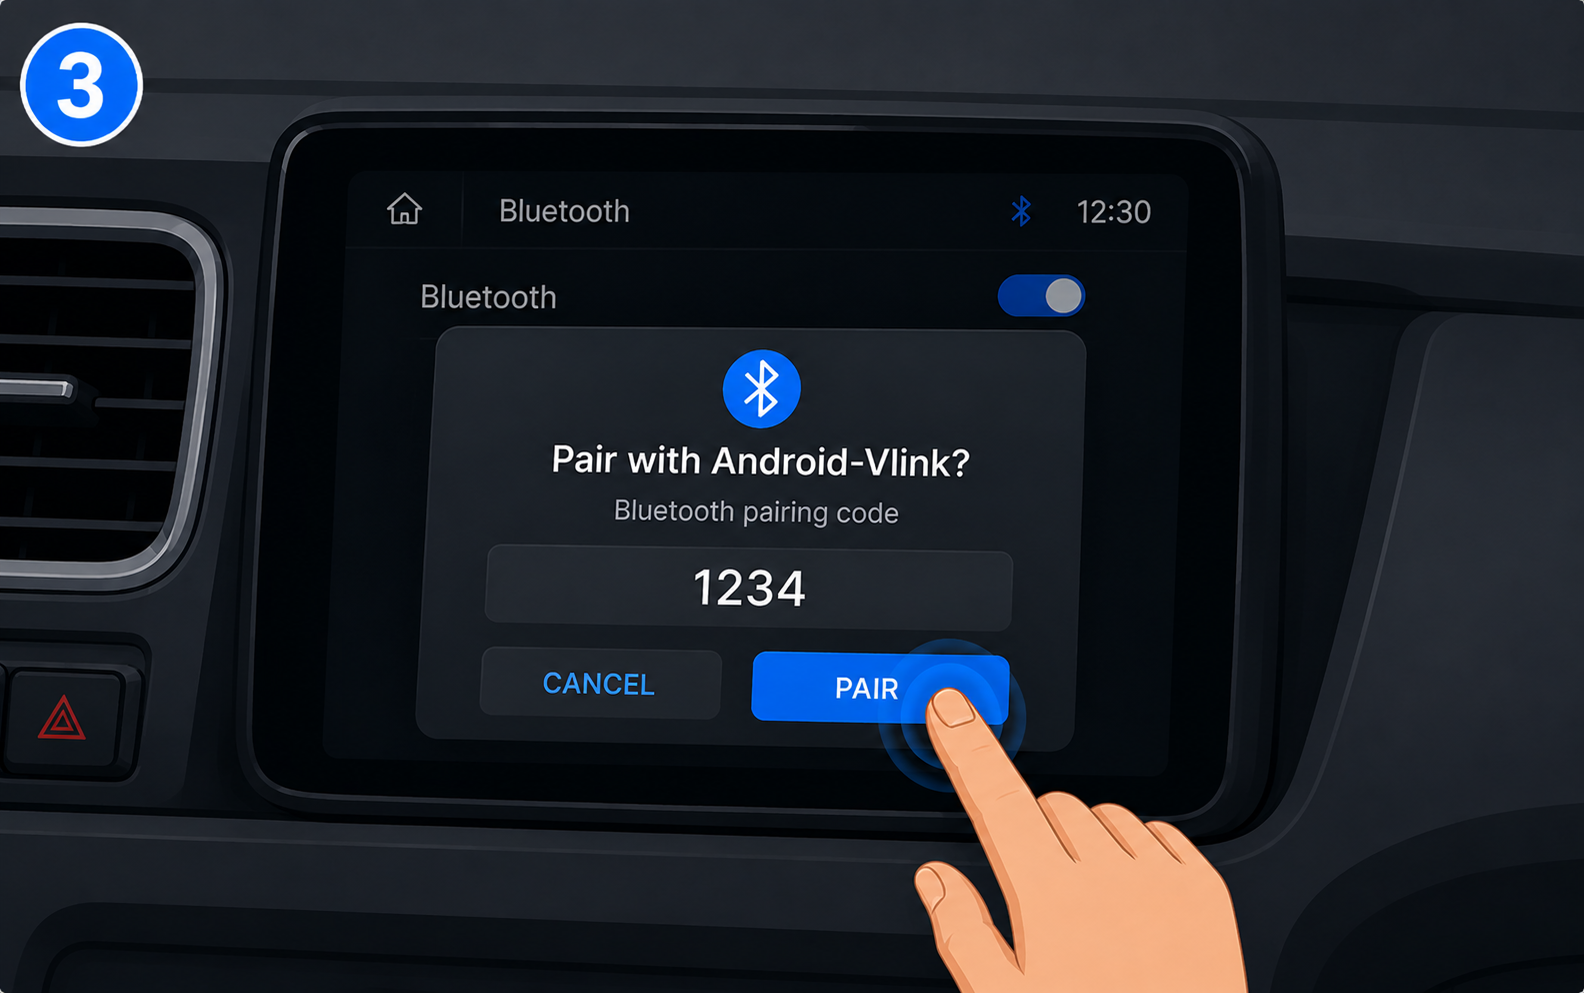
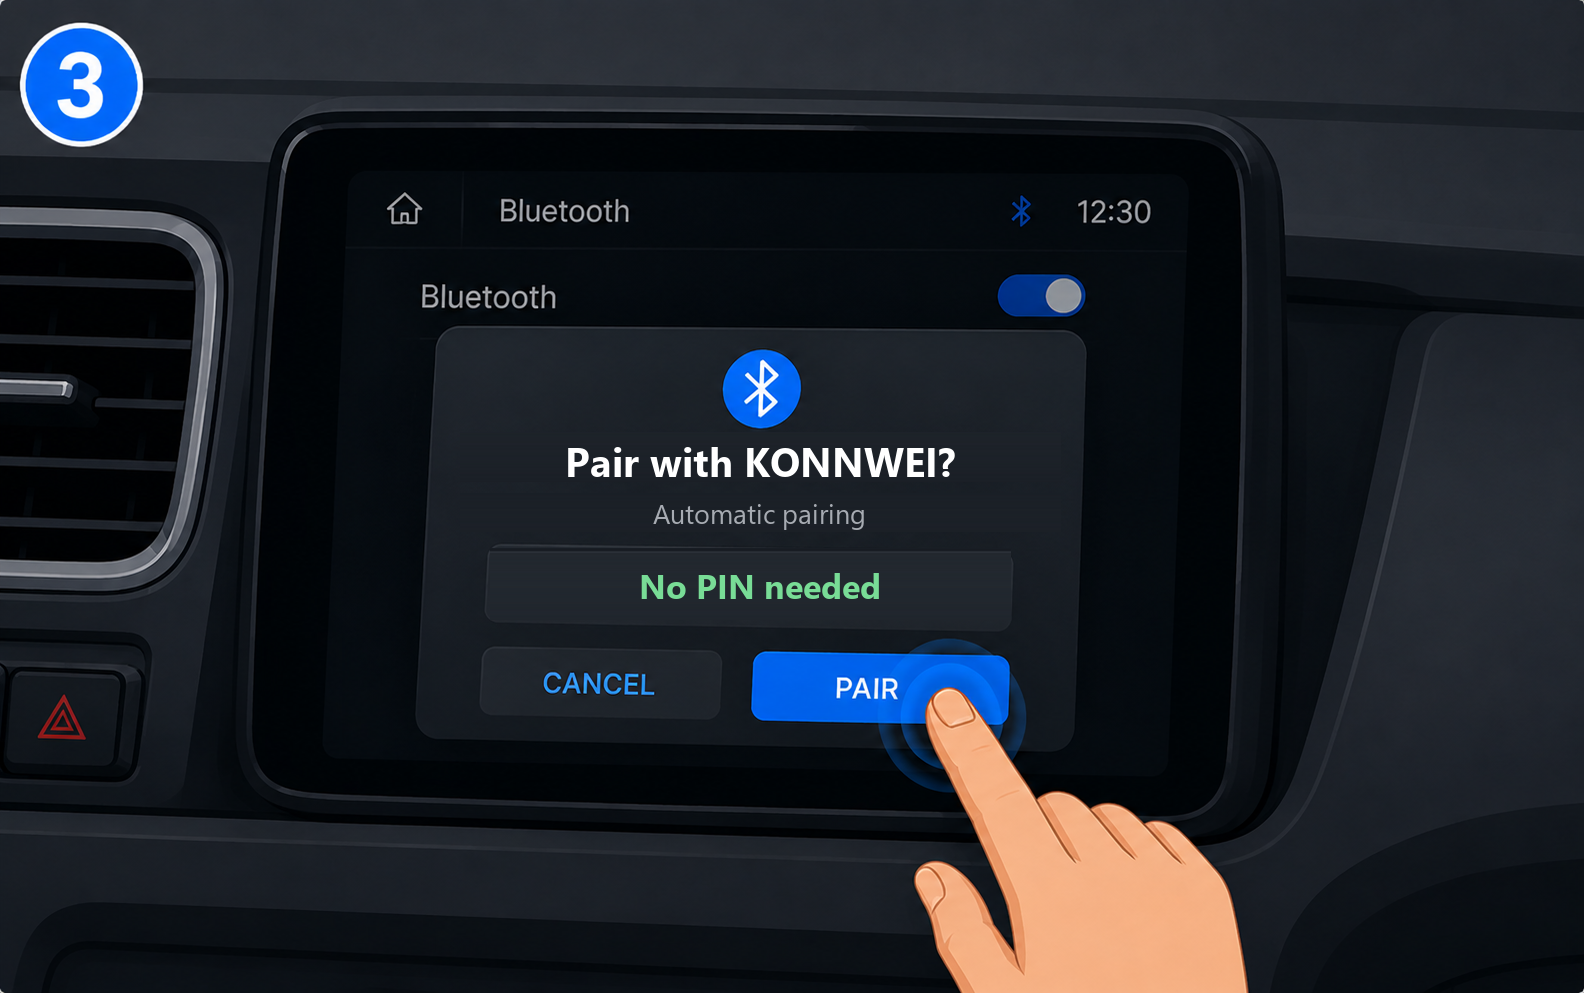
Sửa màn Kết nối OBD2: đổi tên KONNWEI, bỏ PIN, nhớ chế độ Đồng hồ theo xe
- Ảnh hướng dẫn Bluetooth Classic (bước 2-4): "Android-Vlink" -> "KONNWEI",
  bỏ màn nhập PIN 1234 (ghép tự động), ảnh bước 4 đổi thành màn OBD2 LIVE
  (đồng hồ tốc độ + vòng tua) đúng theo thiết kế thật của GaugeCluster/
  AnalogLayout thay vì màn Trang chủ không liên quan.
- Bỏ dòng "Kết nối lần đầu chưa tới 1 phút", rút ngắn text 2 chip hay bị
  cắt thành "...", đổi nền statusCard sang colors.surface để tách bạch
  với khối toggle BLE/Classic phía trên (trước đó cùng màu, nhìn dính liền).
- OBDDashboardScreen: nhớ chế độ Lưới/Đồng hồ THEO TỪNG XE (AsyncStorage) -
  xe nào lần trước đã chuyển sang "Đồng hồ" thì lần kết nối sau tự vào
  thẳng, không phải bấm lại mỗi lần.

Changed region(s): [[0.3403, 0.4371, 0.6187, 0.5307], [0.4021, 0.5619, 0.5568, 0.6244]]

diff --git a/src/i18n/vi.ts b/src/i18n/vi.ts
@@ -506,7 +506,7 @@ const vi = {
   "obd.shared_device_warning": "Xe này cũng đang được kết nối từ {{name}}. Dữ liệu giữa 2 máy có thể không khớp nhau.",
   "obd.connect_mode_ble": "Bluetooth LE",
   "obd.connect_mode_classic": "Bluetooth Classic",
-  "obd.classic_guide": "Dành cho máy không quét được BLE. Ghép nối \"Android-Vlink\" qua Cài đặt Bluetooth hệ thống (PIN 1234) trước, thiết bị ghép rồi sẽ hiện ở đây.",
+  "obd.classic_guide": "Dành cho máy không quét được BLE. Ghép nối \"KONNWEI\" qua Cài đặt Bluetooth hệ thống trước (không cần mã PIN), thiết bị ghép rồi sẽ hiện ở đây.",
   "obd.classic_load_devices": "Nạp danh sách đã ghép nối",
   "obd.classic_no_devices": "Chưa có thiết bị nào đã ghép nối qua Cài đặt Bluetooth hệ thống.",
   "obd.classic_bonded_tag": "đã ghép",
@@ -535,11 +535,10 @@ const vi = {
   "dtc.offline_note": "Kết quả từ dữ liệu ngoại tuyến trong máy (không có mạng).",
   "dtc.common_codes_title": "Mã lỗi thường gặp",
   "obd.guide_title": "Hướng dẫn kết nối OBD2",
-  "obd.guide_subtitle": "Kết nối lần đầu chỉ mất chưa tới 1 phút.",
   "obd.guide_img_pending": "Hình minh hoạ sẽ được bổ sung",
-  "obd.guide_need_adapter": "Adapter OBD2 BLE",
+  "obd.guide_need_adapter": "Adapter OBD2",
   "obd.guide_need_engine": "Xe đã nổ máy",
-  "obd.guide_need_bluetooth": "Bluetooth đã bật",
+  "obd.guide_need_bluetooth": "Bật Bluetooth",
   "obd.guide_s1_title": "Cắm adapter vào cổng",
   "obd.guide_s1_desc": "Cắm adapter vào cổng OBD2 (16 chân, thường dưới vô-lăng bên trái).",
   "obd.guide_s2_title": "Kiểm tra đèn báo",
@@ -549,9 +548,9 @@ const vi = {
   "obd.guide_s4_title": "Bật Bluetooth & kết nối",
   "obd.guide_s4_desc": "Bật Bluetooth và kết nối với thiết bị (adapter OBD2, VD KONNWEI, ELM327, v.v.).",
   "obd.classic_guide_s2_title": "Vào Cài đặt Bluetooth",
-  "obd.classic_guide_s2_desc": "Mở Cài đặt Bluetooth (trên màn hình xe hoặc điện thoại), chọn thiết bị (VD \"Android-Vlink\") trong danh sách thiết bị khả dụng.",
-  "obd.classic_guide_s3_title": "Nhập mã ghép nối",
-  "obd.classic_guide_s3_desc": "Xác nhận mã ghép nối hiện trên màn hình (thường là 1234) rồi bấm \"Ghép nối\" / \"Pair\".",
+  "obd.classic_guide_s2_desc": "Mở Cài đặt Bluetooth (trên màn hình xe hoặc điện thoại), chọn thiết bị \"KONNWEI\" trong danh sách thiết bị khả dụng.",
+  "obd.classic_guide_s3_title": "Xác nhận ghép nối",
+  "obd.classic_guide_s3_desc": "KONNWEI ghép nối tự động, không cần nhập mã PIN - chỉ cần bấm \"Ghép nối\" / \"Pair\" để xác nhận.",
   "obd.classic_guide_s4_title": "Quay lại ứng dụng",
   "obd.classic_guide_s4_desc": "Mở lại NoteDri, bấm \"Nạp danh sách đã ghép nối\" - thiết bị vừa ghép nối sẽ hiện ra, chọn để kết nối.",
   "obd.guide_reco_title": "Loại adapter khuyên dùng",

diff --git a/src/screens/obd/OBDDashboardScreen.tsx b/src/screens/obd/OBDDashboardScreen.tsx
@@ -46,6 +46,15 @@ function gpsTripNudgeKey(vehicleId: number): string {
   return `obd_gps_trip_nudge_shown_${vehicleId}`;
 }
 
+// Nhớ chế độ hiển thị (Lưới/Đồng hồ) THEO TỪNG XE (góp ý user 12/8: đã từng
+// chuyển sang "Đồng hồ" cho xe này thì lần kết nối sau nên tự vào thẳng, đỡ
+// phải bấm lại mỗi lần) - style của riêng chế độ Đồng hồ (Analog/Racing...)
+// đã lưu theo xe ở dashboardStyles.ts, đây là khái niệm khác (chọn MÀN HÌNH
+// nào, không phải theme) nên tách khoá lưu riêng.
+function viewModeKey(vehicleId: number): string {
+  return `obd_view_mode_${vehicleId}`;
+}
+
 export default function OBDDashboardScreen() {
   const navigation = useNavigation<any>();
   const route = useRoute<any>();
@@ -157,7 +166,19 @@ export default function OBDDashboardScreen() {
   // vì useObdConnection chỉ đồng bộ trạng thái qua listener sự kiện lúc mount
   // (không có bước đọc trạng thái hiện tại) - mount lại hook ở 1 route riêng có
   // thể hiện sai "đã ngắt kết nối" cho tới khi có sự kiện tiếp theo.
-  const [viewMode, setViewMode] = useState<'grid' | 'gauge'>('grid');
+  const [viewMode, setViewModeState] = useState<'grid' | 'gauge'>('grid');
+  // Đọc lại chế độ đã lưu cho ĐÚNG xe này ngay khi màn hình mount (vd vừa kết
+  // nối lại) - không đổi hành vi cho xe CHƯA từng lưu gì (giữ mặc định 'grid').
+  useEffect(() => {
+    if (!vehicleId) return;
+    AsyncStorage.getItem(viewModeKey(vehicleId))
+      .then((saved) => { if (saved === 'gauge' || saved === 'grid') setViewModeState(saved); })
+      .catch(() => {});
+  }, [vehicleId]);
+  function setViewMode(mode: 'grid' | 'gauge') {
+    setViewModeState(mode);
+    if (vehicleId) AsyncStorage.setItem(viewModeKey(vehicleId), mode).catch(() => {});
+  }
   useEffect(() => {
     if (viewMode !== 'gauge') return;
     const tag = 'obd-gauge-dashboard';
@@ -353,7 +374,7 @@ export default function OBDDashboardScreen() {
         </View>
         <View style={{ flexDirection: 'row', alignItems: 'center', gap: 10 }}>
           <TouchableOpacity
-            onPress={() => setViewMode((m) => (m === 'grid' ? 'gauge' : 'grid'))}
+            onPress={() => setViewMode(viewMode === 'grid' ? 'gauge' : 'grid')}
             style={[styles.disconnectBtn, { backgroundColor: colors.card }]}
             hitSlop={{ top: 8, bottom: 8, left: 8, right: 8 }}
           >

diff --git a/src/i18n/en.ts b/src/i18n/en.ts
@@ -505,7 +505,7 @@ const en = {
   "obd.shared_device_warning": "This vehicle is also connected from {{name}}. Data may look inconsistent between devices.",
   "obd.connect_mode_ble": "Bluetooth LE",
   "obd.connect_mode_classic": "Bluetooth Classic",
-  "obd.classic_guide": "For devices that can't scan BLE. Pair \"Android-Vlink\" via system Bluetooth settings (PIN 1234) first - paired devices will show up here.",
+  "obd.classic_guide": "For devices that can't scan BLE. Pair \"KONNWEI\" via system Bluetooth settings first (no PIN needed) - paired devices will show up here.",
   "obd.classic_load_devices": "Load paired devices",
   "obd.classic_no_devices": "No devices paired via system Bluetooth settings yet.",
   "obd.classic_bonded_tag": "paired",
@@ -534,9 +534,8 @@ const en = {
   "dtc.offline_note": "Result from on-device offline data (no connection).",
   "dtc.common_codes_title": "Common error codes",
   "obd.guide_title": "How to connect OBD2",
-  "obd.guide_subtitle": "First-time setup takes under a minute.",
   "obd.guide_img_pending": "Illustration coming soon",
-  "obd.guide_need_adapter": "BLE OBD2 adapter",
+  "obd.guide_need_adapter": "OBD2 adapter",
   "obd.guide_need_engine": "Engine running",
   "obd.guide_need_bluetooth": "Bluetooth on",
   "obd.guide_s1_title": "Plug in the adapter",
@@ -548,9 +547,9 @@ const en = {
   "obd.guide_s4_title": "Enable Bluetooth & connect",
   "obd.guide_s4_desc": "Turn on Bluetooth and connect to the device (e.g. KONNWEI, ELM327 adapters).",
   "obd.classic_guide_s2_title": "Open Bluetooth Settings",
-  "obd.classic_guide_s2_desc": "Open Bluetooth Settings (on the car's screen or your phone), select the device (e.g. \"Android-Vlink\") from the list of available devices.",
-  "obd.classic_guide_s3_title": "Enter the pairing code",
-  "obd.classic_guide_s3_desc": "Confirm the pairing code shown on screen (usually 1234), then tap \"Pair\".",
+  "obd.classic_guide_s2_desc": "Open Bluetooth Settings (on the car's screen or your phone), select \"KONNWEI\" from the list of available devices.",
+  "obd.classic_guide_s3_title": "Confirm pairing",
+  "obd.classic_guide_s3_desc": "KONNWEI pairs automatically, no PIN needed - just tap \"Pair\" to confirm.",
   "obd.classic_guide_s4_title": "Return to the app",
   "obd.classic_guide_s4_desc": "Open NoteDri again and tap \"Load paired devices\" - the device you just paired will show up, select it to connect.",
   "obd.guide_reco_title": "Recommended adapter type",

diff --git a/src/components/ObdConnectionGuide.tsx b/src/components/ObdConnectionGuide.tsx
@@ -219,7 +219,6 @@ export default function ObdConnectionGuide({ mode = 'ble' }: { mode?: 'ble' | 'c
     <View style={{ marginTop: 24 }}>
       {/* Tiêu đề */}
       <Text style={[styles.title, { color: colors.text }]}>{t('obd.guide_title')}</Text>
-      <Text style={[styles.subtitle, { color: colors.textSecondary }]}>{t('obd.guide_subtitle')}</Text>
 
       {/* Cần chuẩn bị - rà soát 16/7 (user: dòng "Cần: X · Y · Z" nối bằng dấu
           chấm đọc dài dòng, trình bày không chuyên nghiệp) - đổi 3 mục thành 3
@@ -280,8 +279,7 @@ export default function ObdConnectionGuide({ mode = 'ble' }: { mode?: 'ble' | 'c
 }
 
 const styles = StyleSheet.create({
-  title: { fontSize: 17, fontWeight: '700', marginBottom: 4 },
-  subtitle: { fontSize: 13, lineHeight: 19, marginBottom: 10 },
+  title: { fontSize: 17, fontWeight: '700', marginBottom: 12 },
   needChipsRow: { flexDirection: 'row', flexWrap: 'nowrap', gap: 6, marginBottom: 16 },
   needChip: {
     flex: 1, minWidth: 0,

diff --git a/src/screens/obd/OBDSetupScreen.tsx b/src/screens/obd/OBDSetupScreen.tsx
@@ -482,8 +482,11 @@ export default function OBDSetupScreen() {
           </>
         ) : (
         <>
-        {/* Status indicator */}
-        <View style={[styles.statusCard, { backgroundColor: colors.card }]}>
+        {/* Status indicator. Nền dùng colors.surface (khác colors.card của khối
+            modeToggle phía trên) - phản hồi user: 2 khối liền kề cùng màu card
+            trông như dính làm 1, mất phân tách khi khoanh vùng thực tế đây là
+            2 card riêng biệt. */}
+        <View style={[styles.statusCard, { backgroundColor: colors.surface }]}>
           <FontAwesome5
             name="bluetooth-b"
             size={32}
